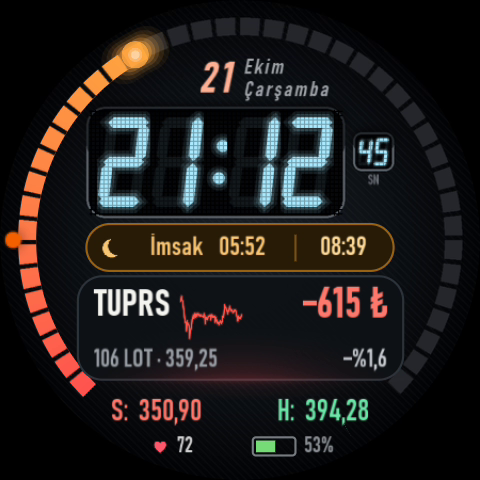
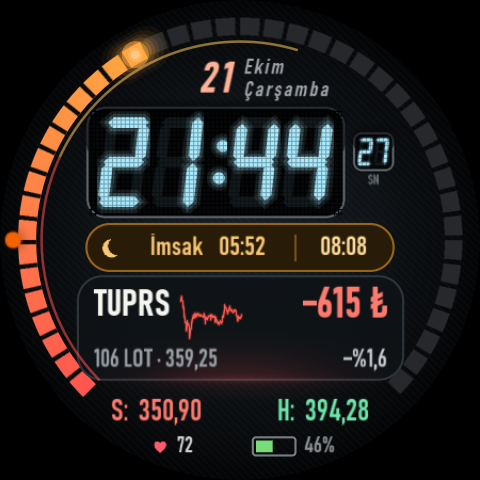
Saat: halka iç çeperinde stop bölge çizgileri (kurum stopu kırmızı, izleme stopu amber, %55) — konumlar uygulamada her güncellemede hesaplanır; S/H yuvaları RANGED_VALUE+SHORT_TEXT

diff --git a/WatchApp/app/src/main/java/com/biokpl/gridwatch/Complications.kt b/WatchApp/app/src/main/java/com/biokpl/gridwatch/Complications.kt
@@ -29,7 +29,7 @@ private fun ranged(v: Float, min: Float, max: Float, title: String, text: String
 
 private val PREVIEW = Snapshot(
     Snapshot.Mode.ACTIVE, symbol = "TUPRS", price = 384.90, pnlTl = 582.0, pnlPct = 2.5, qty = 62,
-    stop = 351.45, target = 394.27, signal = "DEVAM",
+    stop = 351.45, target = 394.27, entry = 375.50, stopLoss = 368.72, signal = "DEVAM",
 )
 
 private fun ringData(s: Snapshot): ComplicationData = when (s.mode) {
@@ -51,15 +51,56 @@ private fun kzData(s: Snapshot): ComplicationData = when (s.mode) {
     Snapshot.Mode.NO_DATA -> ranged(0f, -1f, 1f, "AL/SAT", "—")
 }
 
-private fun stopData(s: Snapshot): ComplicationData =
-    if (s.stop > 0 && s.mode != Snapshot.Mode.WAIT) short("S:  ${fmtPrice(s.stop)}", "Stop ${fmtPrice(s.stop)}")
-    else if (s.mode == Snapshot.Mode.WAIT) short("${s.trades} işlem")
-    else short(" ")
+/*
+ * Stop / Hedef yuvaları metnin yanında halka iç çeperindeki bölge çizgilerini de taşır
+ * (kadranda 8 yuva sınırı dolu olduğu için ayrı yuva yok):
+ *   Stop  → değer = kurum stopunun halkadaki yeri  → kırmızı çizgi: halka başı → kurum stopu
+ *   Hedef → min = kurum stopu, değer = izleme stopu → amber çizgi: kurum stopu → izleme stopu
+ * Pozisyon yokken değerler 0 (çizgi görünmez). Konumlar her güncellemede yeniden hesaplanır.
+ */
+private fun stopText(s: Snapshot): String = when {
+    s.stop > 0 && s.mode != Snapshot.Mode.WAIT -> "S:  ${fmtPrice(s.stop)}"
+    s.mode == Snapshot.Mode.WAIT -> "${s.trades} işlem"
+    else -> " "
+}
 
-private fun targetData(s: Snapshot): ComplicationData =
-    if (s.target > 0 && s.mode != Snapshot.Mode.WAIT) short("H:  ${fmtPrice(s.target)}", "Hedef ${fmtPrice(s.target)}")
-    else if (s.mode == Snapshot.Mode.WAIT) short("%${s.winRate} isabet")
-    else short(" ")
+private fun targetText(s: Snapshot): String = when {
+    s.target > 0 && s.mode != Snapshot.Mode.WAIT -> "H:  ${fmtPrice(s.target)}"
+    s.mode == Snapshot.Mode.WAIT -> "%${s.winRate} isabet"
+    else -> " "
+}
+
+private fun stopData(s: Snapshot): ComplicationData {
+    val hard = s.ringPos(s.stop).coerceAtLeast(0f)
+    return ranged(hard, 0f, 1f, " ", stopText(s))
+}
+
+private fun targetData(s: Snapshot): ComplicationData {
+    val hard = s.ringPos(s.stop).coerceAtLeast(0f)
+    val soft = s.ringPos(s.stopLoss).coerceAtLeast(0f)
+    return ranged(maxOf(soft, hard), hard, 1f, " ", targetText(s))
+}
+
+abstract class DualService(
+    private val ranged: (Snapshot) -> ComplicationData,
+    private val text: (Snapshot) -> String,
+) : SuspendingComplicationDataSourceService() {
+    override suspend fun onComplicationRequest(request: ComplicationRequest): ComplicationData {
+        val s = AlSatRepo.get(applicationContext)
+        android.util.Log.d("GridWatch", "${javaClass.simpleName} type=${request.complicationType} mode=${s.mode} entry=${s.entry} stop=${s.stop} sl=${s.stopLoss} tgt=${s.target} pos=${s.ringPos(s.stop)}")
+        return when (request.complicationType) {
+            ComplicationType.RANGED_VALUE -> ranged(s)
+            ComplicationType.SHORT_TEXT -> short(text(s))
+            else -> NoDataComplicationData()
+        }
+    }
+
+    override fun getPreviewData(type: ComplicationType): ComplicationData? = when (type) {
+        ComplicationType.RANGED_VALUE -> ranged(PREVIEW)
+        ComplicationType.SHORT_TEXT -> short(text(PREVIEW))
+        else -> null
+    }
+}
 
 abstract class BaseService(
     private val type: ComplicationType,
@@ -75,5 +116,6 @@ abstract class BaseService(
 
 class RingComplicationService : BaseService(ComplicationType.RANGED_VALUE, ::ringData)
 class KzComplicationService : BaseService(ComplicationType.RANGED_VALUE, ::kzData)
-class StopComplicationService : BaseService(ComplicationType.SHORT_TEXT, ::stopData)
-class TargetComplicationService : BaseService(ComplicationType.SHORT_TEXT, ::targetData)
+// RANGED_VALUE (A kadranı: metin + bölge çizgisi) ve SHORT_TEXT (diğer kadranlar: yalnız metin)
+class StopComplicationService : DualService(::stopData, ::stopText)
+class TargetComplicationService : DualService(::targetData, ::targetText)

diff --git a/WatchApp/app/src/main/java/com/biokpl/gridwatch/AlSatRepo.kt b/WatchApp/app/src/main/java/com/biokpl/gridwatch/AlSatRepo.kt
@@ -22,6 +22,7 @@ data class Snapshot(
     val stop: Double = 0.0,      // kurumdaki STOP emri (hard_stop)
     val target: Double = 0.0,
     val entry: Double = 0.0,     // açık pozisyonun alış (ortalama) fiyatı
+    val stopLoss: Double = 0.0,  // izleme stopu (saatlik kapanış onaylı; kurum stopu = stop)
     val signal: String = "",
     val lots: Int = 0,
     val entryLow: Double = 0.0,
@@ -40,6 +41,12 @@ data class Snapshot(
      *   (Stop'a göre ölçeklemek, iz süren stop yükseldikçe halkayı yerinde sayıyormuş gibi gösteriyordu.)
      * Diğer durumlar: fiyatın stop→hedef aralığındaki yeri.
      */
+    /** Bir fiyat seviyesinin halkadaki yeri (açık pozisyon, alışa sabit ölçek); yoksa -1. */
+    fun ringPos(level: Double): Float =
+        if (mode == Mode.ACTIVE && entry > 0 && target > entry && level > 0)
+            (0.5 + 0.5 * (level - entry) / (target - entry)).coerceIn(0.0, 1.0).toFloat()
+        else -1f
+
     val progress: Float
         get() = when {
             mode == Mode.ACTIVE && entry > 0 && target > entry ->
@@ -126,6 +133,7 @@ object AlSatRepo {
                 qty = tr.optInt("open_qty", tr.optInt("total_qty", 0)),
                 stop = stop, target = tr.optDouble("target1", 0.0),
                 entry = tr.optDouble("avg_cost", 0.0).takeIf { it > 0 } ?: tr.optDouble("entry_price", 0.0),
+                stopLoss = tr.optDouble("stop_loss", 0.0),
                 signal = if (sig == "—") "DEVAM" else sig,
                 totalPnl = total, trades = trades, winRate = wr, updated = updated,
             )

diff --git a/WatchApp/design/gen_faces.py b/WatchApp/design/gen_faces.py
@@ -431,6 +431,18 @@ def face_ultra():
         f'<Stroke color="#ffffffff" thickness="{TH * 0.45:.1f}" cap="ROUND">{grad_core}</Stroke></Arc></PartDraw>'
     )
 
+    # S/H yuvaları tam ekran + tam ekran BoundingOval: Samsung yuva çizimini sınır alanına kırpıyor.
+    # Stop bölge çizgileri (halka iç çeperi): S yuvası halka başı→kurum stopu (kırmızı),
+    # H yuvası kurum stopu→izleme stopu (amber). Yuvalar tam ekran → yazılar mutlak (ölçekli) konumda.
+    O_ = 225 * (1 - Z)
+    SX = lambda x: round(x + O_); SY = lambda y: round(y + O_)
+    RI = R - TH / 2 - 5
+    def zone(t0, t1, col):
+        return (f'<PartDraw x="0" y="0" width="450" height="450">{amb(90)}'
+                f'<Arc centerX="225" centerY="225" width="{round(2 * RI)}" height="{round(2 * RI)}" startAngle="225" endAngle="225">'
+                f'<Transform target="startAngle" value="225 + 270 * {t0}" /><Transform target="endAngle" value="225 + 270 * {t1}" />'
+                f'<Stroke color="{col}" thickness="2.4" /></Arc></PartDraw>')
+
     kz_cond = lambda tpl_x, tpl_w, size, ty=0: (
         '<Condition><Expressions>'
         '<Expression name="pos"><![CDATA[[COMPLICATION.RANGED_VALUE_VALUE] > 0]]></Expression>'
@@ -513,10 +525,14 @@ def face_ultra():
               text(0, 0, k(190), k(30), "%s", ["[COMPLICATION.TEXT]"], "sc", k(24), "#ff9aa0a6", "START", 0)
               + text(k(190), 0, pw - k(28) - k(190), k(30), "%s", ["[COMPLICATION.TITLE]"], "sc", k(24), "#ffc8cdd2", "END", 0))}
 
-        {slot(3, k(96), k(376), k(140), k(32), "SHORT_TEXT", APP + "StopComplicationService", "SHORT_TEXT", "slot_alsat",
-              text(0, 0, k(140), k(32), "%s", ["[COMPLICATION.TEXT]"], "sc", k(28), RED, "CENTER", 120))}
-        {slot(4, k(244), k(376), k(140), k(32), "SHORT_TEXT", APP + "TargetComplicationService", "SHORT_TEXT", "slot_alsat",
-              text(0, 0, k(140), k(32), "%s", ["[COMPLICATION.TEXT]"], "sc", k(28), GREEN, "CENTER", 120))}
+        {slot(3, 0, 0, 450, 450, "RANGED_VALUE", APP + "StopComplicationService", "RANGED_VALUE", "slot_alsat",
+              zone("0", "[COMPLICATION.RANGED_VALUE_VALUE]", "#8cff5050")
+              + text(SX(k(96)), SY(k(376)), k(140), k(32), "%s", ["[COMPLICATION.TEXT]"], "sc", k(28), RED, "CENTER", 120),
+              '<BoundingOval x="0" y="0" width="450" height="450" />')}
+        {slot(4, 0, 0, 450, 450, "RANGED_VALUE", APP + "TargetComplicationService", "RANGED_VALUE", "slot_alsat",
+              zone("[COMPLICATION.RANGED_VALUE_MIN]", "[COMPLICATION.RANGED_VALUE_VALUE]", "#8cffc45a")
+              + text(SX(k(244)), SY(k(376)), k(140), k(32), "%s", ["[COMPLICATION.TEXT]"], "sc", k(28), GREEN, "CENTER", 120),
+              '<BoundingOval x="0" y="0" width="450" height="450" />')}
 
         <PartImage x="{k(160)}" y="{k(412)}" width="{k(20)}" height="{k(20)}">{amb(0)}<Image resource="ic_heart" /></PartImage>
         {text(k(184), k(408), 60, k(28), "%s", ["[HEART_RATE]"], "sc", k(21), "#ffd2d2d2", "START", 0)}
